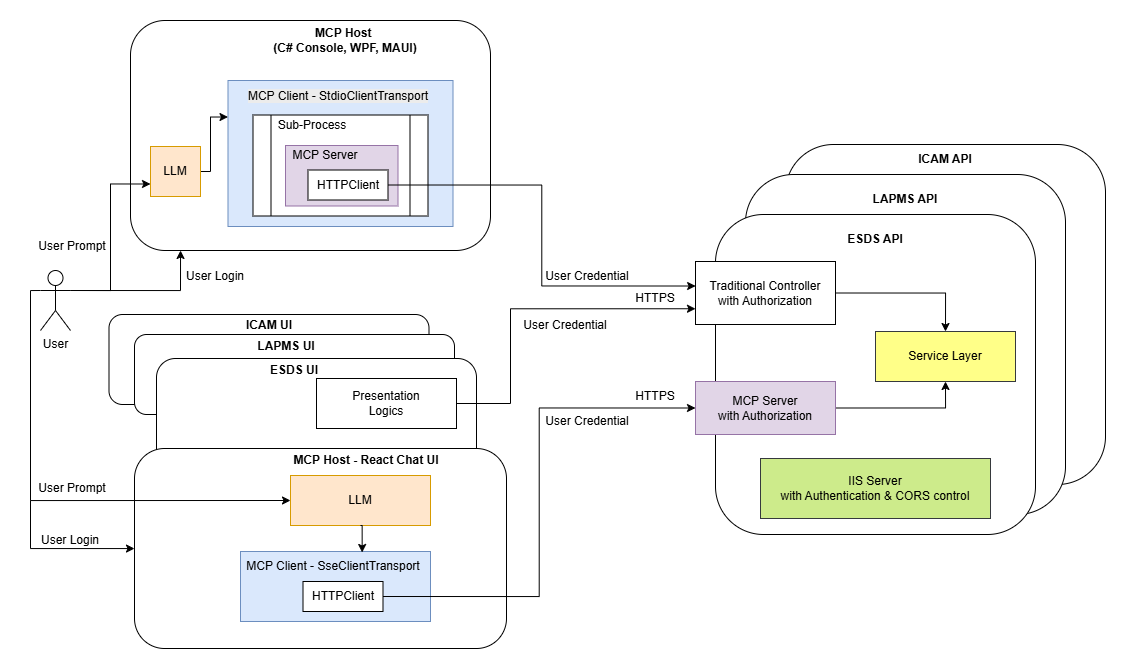
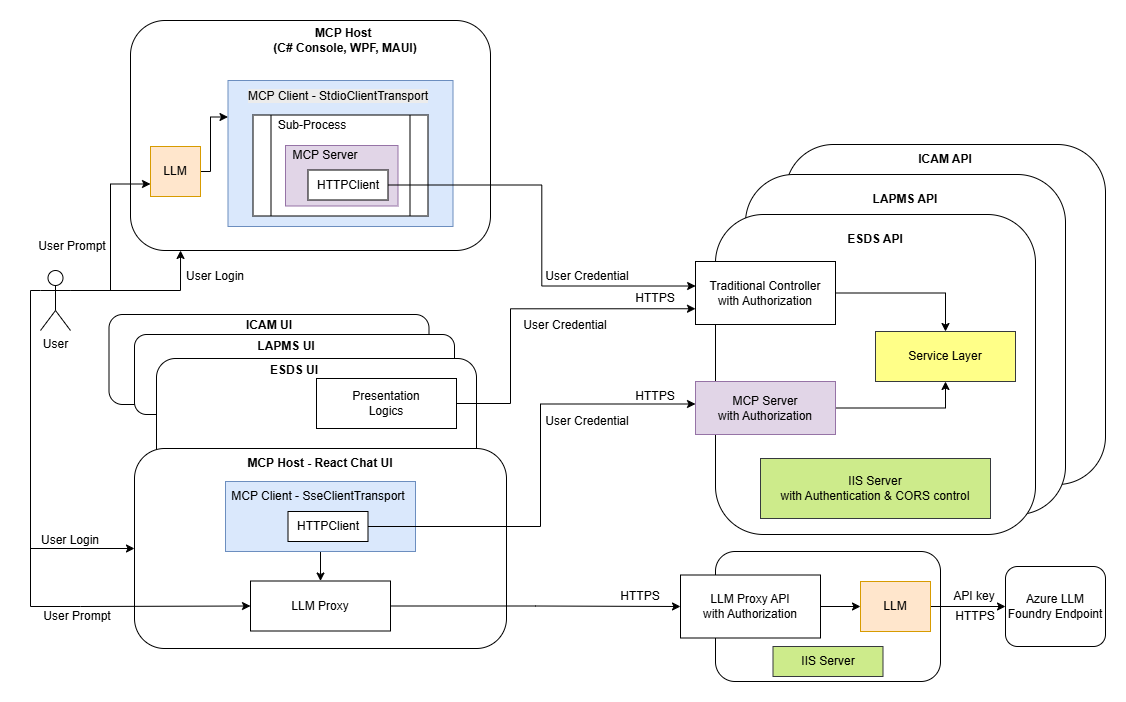
decouple LLM

diff --git a/reacthost_ts/src/mcphelper.ts b/reacthost_ts/src/mcphelper.ts
@@ -26,9 +26,8 @@ class MCPClient extends Client {
 export class LLMClient {
   private client: any;
   private Messages: ChatMessage[] = [];
-  constructor(endpoint: string, apiKey: string, modelId: string) {
-    const fullEndpoint = endpoint.replace(/\/$/, '') + '/openai/deployments/' + modelId;
-    this.client = ModelClient(fullEndpoint, new AzureKeyCredential(apiKey));
+  constructor(endpoint: string) {
+    this.client = ModelClient(endpoint, new AzureKeyCredential("DummyKey"));
   }
   public addMessage(msg: ChatMessage) {
     this.Messages.push(msg);
@@ -68,8 +67,8 @@ export async function callMCPTool(client: any, name: string, args: any) {
   return { result: extractedText ?? JSON.stringify(result) };
 }
 
-export function createLLMClient(endpoint: string, apiKey: string, modelId: string) {
-  return new LLMClient(endpoint, apiKey, modelId);
+export function createLLMClient(endpoint: string) {
+  return new LLMClient(endpoint);
 }
 
 export async function ChatWithFunctionCalls({
@@ -110,9 +109,9 @@ export async function ChatWithFunctionCalls({
       }
     }
   }
-  console.log('DEBUG MCP tools passed to LLM:', tools);
+  console.log('DEBUG MCP tools passed to LLM via LLM Proxy API:', tools);
   while (awaitingToolCallAnswer) {
-    const response = await llmClient.path('/chat/completions').post({
+    const response = await llmClient.path('/LLM').post({
       ...llmParams,
       body: {
         ...llmParams.body,
@@ -120,8 +119,9 @@ export async function ChatWithFunctionCalls({
         tools
       }
     });
-    if (response.body && Array.isArray(response.body.choices)) {
-      for (const choice of response.body.choices) {
+    const responseBody = response.body;
+    if (responseBody && Array.isArray(responseBody.choices)) {
+      for (const choice of responseBody.choices) {
         const toolCallArray = choice.message?.tool_calls;
         if (toolCallArray) {
           choice.message.role = 'assistant';
@@ -147,7 +147,7 @@ export async function ChatWithFunctionCalls({
           if (choice.message?.content && choice.message.content !== '') {
             llmOutput += choice.message.content;
             awaitingToolCallAnswer = false;
-            console.log('[LLM token used]', response.body.usage?.total_tokens || 0);
+            console.log('[LLM token used]', responseBody.usage?.total_tokens || 0);
           }
         }
       }

diff --git a/reacthost_ts/src/App.tsx b/reacthost_ts/src/App.tsx
@@ -37,11 +37,9 @@ function App() {
     fetch('/appsettings.json')
       .then(res => res.json())
       .then(config => {
-        const endpoint = config.LLM?.EndPoint;
-        const apiKey = config.LLM?.Azure_API_key;
-        const modelId = config.LLM?.ModelId;
-        if (endpoint && apiKey && modelId) {
-          LLMClientRef.current = createLLMClient(endpoint, apiKey, modelId);
+        const endpoint = config.LLMProxy?.EndPoint;
+        if (endpoint) {
+          LLMClientRef.current = createLLMClient(endpoint);
           LLMClientRef.current.addMessage(chatMessages[0]); // Sync system message to LLM client
         }
       })

diff --git a/API/Controllers/LLMController.cs b/API/Controllers/LLMController.cs
@@ -1,0 +1,70 @@
+using Microsoft.AspNetCore.Mvc;
+
+namespace API.Controllers
+{
+    [ApiController]
+    [Route("[controller]")]
+    public class LLMController : ControllerBase
+    {
+        private readonly ILogger<LLMController> _logger;
+        private readonly IConfiguration _configuration;
+        private readonly HttpClient _httpClient;
+
+        public LLMController(ILogger<LLMController> logger, IConfiguration configuration, HttpClient httpClient)
+        {
+            _logger = logger;
+            _configuration = configuration;
+            _httpClient = httpClient;
+        }
+
+        [HttpPost]
+        public async Task<IActionResult> Proxy()
+        {
+            var request = HttpContext.Request;
+            // Get the proxy target URI from configuration
+            var targetUri = _configuration["LLM:EndPoint"];
+
+            HttpRequestMessage proxiedRequest = new HttpRequestMessage(
+                HttpMethod.Post,
+                targetUri
+            );
+
+            // Copy request content
+            request.EnableBuffering(); // Allow rereading the body
+            using (var reader = new StreamReader(request.Body, leaveOpen: true))
+            {
+                var body = await reader.ReadToEndAsync();
+                request.Body.Position = 0; // Reset for downstream
+                var contentType = request.ContentType ?? "application/json";
+                proxiedRequest.Content = new StringContent(body, System.Text.Encoding.UTF8, contentType);
+            }
+            _httpClient.DefaultRequestHeaders.Add("api-key", _configuration["LLM:Azure_API_Key"] ?? "");
+            _httpClient.DefaultRequestHeaders.Add("authorization", "Bearer " + _configuration["LLM:Azure_API_Key"] ?? "");
+            // Send request
+            HttpResponseMessage response;
+            try {
+                response = await _httpClient.SendAsync(proxiedRequest, HttpCompletionOption.ResponseHeadersRead);
+            }
+            catch (HttpRequestException ex)
+            {
+                _logger.LogError(ex, "Error while sending request to LLM endpoint.");
+                return StatusCode(StatusCodes.Status502BadGateway, "Error while communicating with the LLM service.");
+            }
+
+            // Copy response headers
+            foreach (var header in response.Headers)
+            {
+                Response.Headers[header.Key] = header.Value.ToArray();
+            }
+            foreach (var header in response.Content.Headers)
+            {
+                Response.Headers[header.Key] = header.Value.ToArray();
+            }
+            Response.StatusCode = (int)response.StatusCode;
+
+            // Return the proxied response body
+            var responseStream = await response.Content.ReadAsStreamAsync();
+            return new FileStreamResult(responseStream, response.Content.Headers.ContentType?.ToString() ?? "application/octet-stream");
+        }
+    }
+}

diff --git a/API/Program.cs b/API/Program.cs
@@ -15,6 +15,8 @@ builder.Services.AddCors(options => {
 builder.Services.AddMcpServer().WithToolsFromAssembly().WithHttpTransport();
 builder.Services.AddControllers();
 builder.Services.AddScoped<TimeService>();
+builder.Services.AddHttpClient();
+
 // Learn more about configuring Swagger/OpenAPI at https://aka.ms/aspnetcore/swashbuckle
 builder.Services.AddEndpointsApiExplorer();
 builder.Services.AddSwaggerGen();

diff --git a/README.md b/README.md
@@ -43,6 +43,16 @@
         * For LLM to call via MCP SSE Clients
         * Present data in a sentense, with optional instructions for LLM to process
     * Both API controller and MCP Servers should call the same Service layer to obtain data
+    * LLM Proxy
+        * To eliminate the need for reacthost_ts UI to directly call Azure LLM endpoint passing Azure API Key
+        * When reacthost_ts UI needs to call LLM, set Uri to this LLM Proxy API
+        * This LLM Proxy redirect the traffic to the real Azure LLM endpoint with Azure API Key and redirect the response back to reacthost_ts UI
+* reacthost_ts UI is a React UI MCP Host
+    * It is a Chat App with MCP Servers registered
+    * Post user's prompt to LLM via the LLM Proxy API, with Tools collected from all MCP Servers
+    * Response to LLM Proxy Response's Tool Call, call the tool and add tool's response to the Chat Messages
+    * Loop back to the LLM endpoint until no more tool call requests from LLM
+    * Display LLM's final content in the Chat area
 ## STDIO
 * MCP clients create McpServer.ConsoleHost in-process
 * McpServer.ConsoleHosts use HTTPClient to call external application's API controller
@@ -148,7 +158,7 @@ import { CallToolResultSchema, ListToolsResultSchema } from "@modelcontextprotoc
   }
 ```
 ## LLM (Azure OpenAI with function calling)
-### .NET
+### .NET (In C# console, WPF, MAUI, API)
 * Very complete with automated function calling build-in
 ```
     <PackageReference Include="Azure.AI.OpenAI" Version="2.1.0" />
@@ -185,7 +195,8 @@ IList<Microsoft.Extensions.AI.ChatMessage> chatHistory =
 
 ChatResponse response = await chatClient.GetResponseAsync(chatHistory, chatOptions);
 ```
-### React
+### React UI (Not recommended. Risk of exposing the Azure API Key)
+* In actual implementation, the ModelClient's Uri should point to API's LLM Proxy.
 ```
     "@azure-rest/ai-inference": "latest",
 ```
